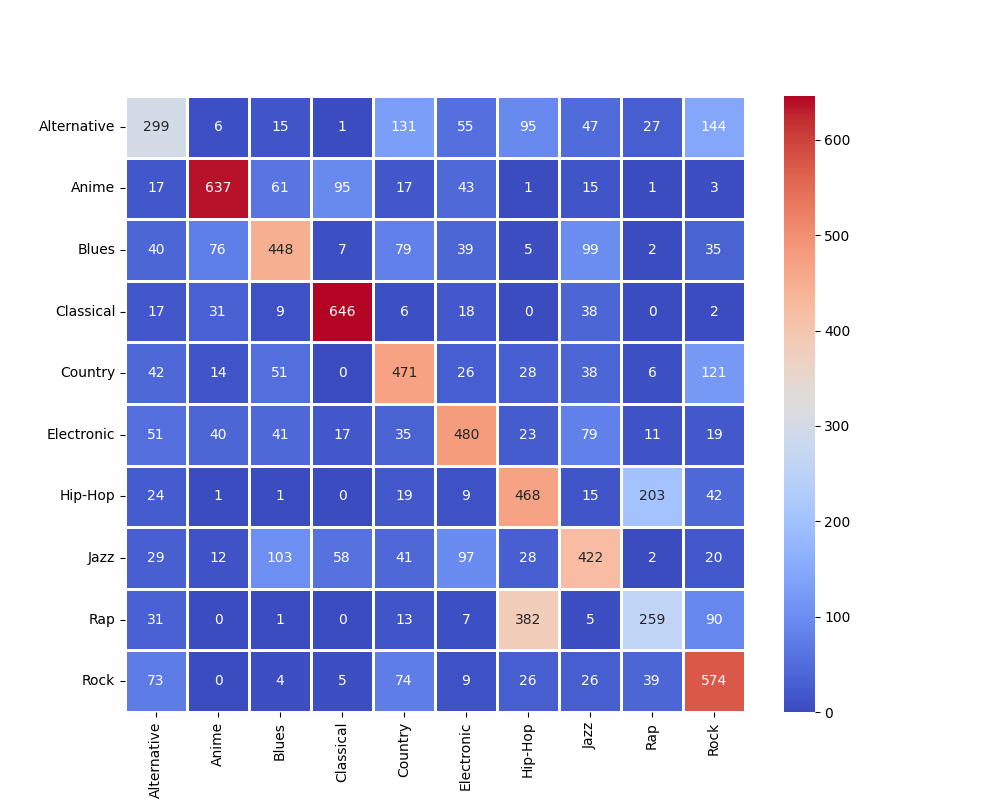
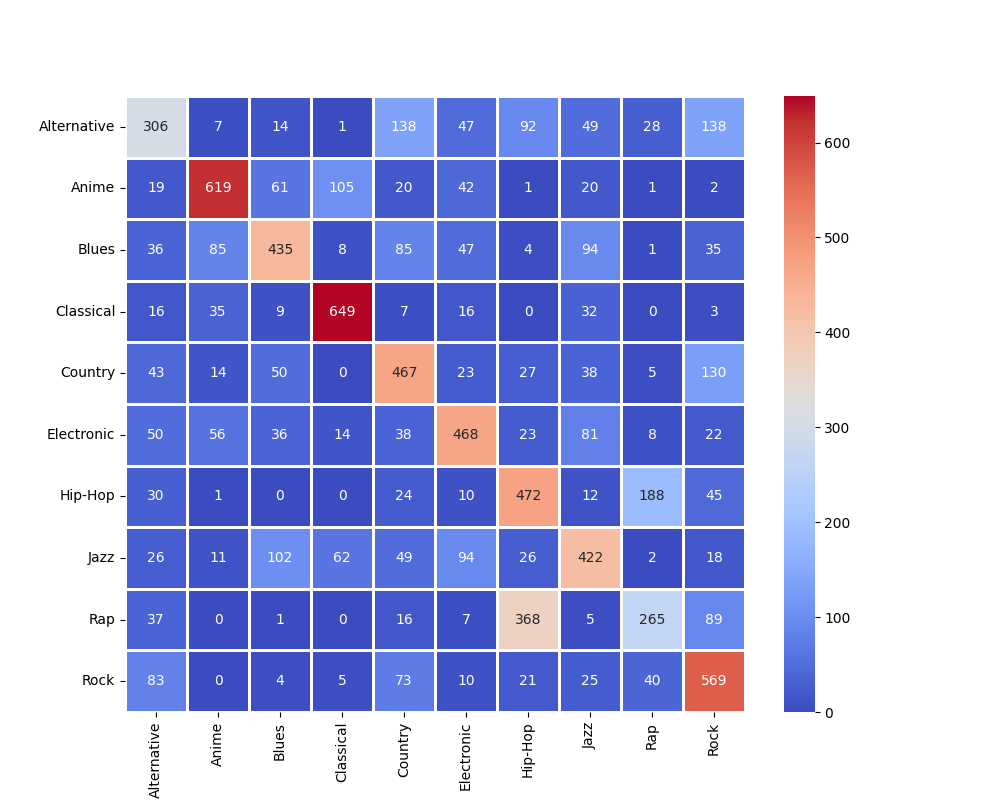
Submitted version

diff --git a/neural_network.py b/neural_network.py
@@ -1,17 +1,14 @@
-from my_data import MusicData
-from keras.models import Sequential
-from keras.layers import Dense, Activation
-import numpy as np
 from time import time
+
+from ann_visualizer.visualize import ann_viz;
+from keras.layers import Dense
+from keras.models import Sequential
+
+from my_data import MusicData
 from utility import print_time
 
-# TODO: Implement Timing
-# TODO: Loss Graph
 
-# https://machinelearningmastery.com/tutorial-first-neural-network-python-keras/
-# https://towardsdatascience.com/building-our-first-neural-network-in-keras-bdc8abbc17f5
-
-def ann(loss, optimizer):
+def ann(loss, optimizer, epochs, batch_size):
     data = MusicData()
     X_train, X_test, y_train, y_test = data.get_x_y_split()
 
@@ -22,23 +19,22 @@ def ann(loss, optimizer):
     model.add(Dense(32, activation='relu'))  # 5th Layer
     model.add(Dense(10, activation='softmax'))  # 6th Layer (Output)
 
-    # Compile the model and calculate its accuracy: In this case, we will use cross entropy as the loss argument. This
-    # loss is for a binary classification problems and is defined in Keras as “binary_crossentropy“.
-
-    # We will define the optimizer as the efficient stochastic gradient descent algorithm “adam“. This is a popular
-    # version of gradient descent because it automatically tunes itself and gives good results in a wide range of problems.
     model.compile(loss=loss, optimizer=optimizer, metrics=['accuracy'])
 
     model.summary()  # Print a summary of the Keras model:
 
     t1 = time()
-    history = model.fit(X_train, y_train, epochs=10, batch_size=8, verbose=1)
+    history = model.fit(X_train, y_train, epochs=epochs, batch_size=batch_size, verbose=1)
     t2 = time()
     training_time = print_time(t1, t2, "Trained the Artificial Neural Network Model")
 
-    # Evaluate the keras model
+    # Evaluate the Keras Model
     _, accuracy = model.evaluate(X_test, y_test)
     print('Accuracy: %.2f' % (accuracy * 100))
 
-    return accuracy * 100, training_time
+    try:
+        ann_viz(model, title="Neural Network Drawing")
+    except:
+        print("Could not draw the Neural Network visualization: Permission Denied.")
 
+    return accuracy * 100, training_time

diff --git a/decision_tree.py b/decision_tree.py
@@ -1,12 +1,13 @@
+from time import time
+
 import pydotplus
 from IPython.display import Image
 from six import StringIO
 from sklearn import metrics  # Import scikit-learn metrics module for accuracy calculation
-from sklearn.metrics import classification_report
 from sklearn.tree import DecisionTreeClassifier  # Import Decision Tree Classifier
 from sklearn.tree import export_graphviz
+
 from my_data import MusicData
-from time import time
 from utility import print_time
 
 
@@ -26,8 +27,6 @@ def dtree():
 
     data = MusicData(dtree=True)
     X_train, X_test, y_train, y_test = data.get_x_y_split()
-
-    print(X_train, X_test, y_train, y_test)
 
     best_depth = 3
     old_accuracy = 0
@@ -60,17 +59,3 @@ def dtree():
     visualize_tree(dtree, "dtree_depth=3")
 
     return accuracy, training_time
-
-    """
-    Gini ratio, which measures the impurity of the node. 
-    
-    Here, the resultant tree is unpruned. This unpruned tree is unexplainable and not easy to understand. In the next section, let's optimize it by pruning.
-    
-    value = [6, 7] means that of these 13 comedians, 6 will get a "NO", and 7 will get a "GO".
-    
-    samples = 13 means that there are 13 comedians left at this point in the decision, which is all of them since this is the first step.
-    
-    Rank <= 6.5 means that every comedian with a rank of 6.5 or lower will follow the True arrow (to the left), and the rest will follow the False arrow (to the right).
-    """
-    # https://www.w3schools.com/python/python_ml_decision_tree.asp
-    # https://www.datacamp.com/tutorial/decision-tree-classification-python

diff --git a/main.py b/main.py
@@ -27,49 +27,15 @@ accuracy, time = dtree()
 accuracies.append(accuracy)
 times.append(time)
 
-accuracy, time = ann('binary_crossentropy', 'adam')
+accuracy, time = ann('binary_crossentropy', 'adam', 10, 8)
 accuracies.append(accuracy)
 times.append(time)
-
-""" REAL RUN 1 RobustScaler Populated 
-       accuracies      times
-KNN     49.815089   4.329000
-DTree   50.936884   2.771217
-LR      55.399408  14.931998
-SVM     57.593688  60.287024
-ANN     59.134614  70.788965
-
-REAL RUN 2 RobustScaler Non Populated
-       accuracies      times
-KNN     48.915187   3.728407
-DTree   51.084813   1.125275
-LR      53.846154   3.957327
-SVM     57.988166  61.200604
-ANN     58.222389  73.825566
-
-REAL RUN 3 MinMaxScaler Non Populated
-       accuracies      times
-KNN     44.995069   4.013001
-DTree   51.023176   1.204003
-LR      53.759862   8.193000
-SVM     54.857002  63.022998
-ANN     56.669134  73.772000
-
-REAL RUN 4 StandartScaler Non Populated
-       accuracies      times
-ANN     19.045858  82.564559
-KNN     48.089250   4.357453
-DTree   50.936884   2.031972
-LR      53.870809   1.592998
-SVM     56.508876  79.743391
-"""
 
 df = pd.DataFrame({'accuracies': accuracies, 'times': times}, index=model_order)
 df.sort_values(inplace=True, by='accuracies')
 ax = df.plot.barh(cmap='Set1')
 ax.set_title("Models Sorted by Best Accuracy")
 ax.set_xlabel("Performance")
-plt.savefig("./plots/predictions/model_comparison_robust_nopopulate.png")
+plt.savefig("./plots/predictions/model_comparison_1.png")
 plt.close()
-
 print(df.head())

diff --git a/my_data.py b/my_data.py
@@ -17,7 +17,7 @@ class MusicData:
 
         self.numeric_features = self.df.drop(['mode', 'music_genre', 'key'], axis=1)
 
-        # self.get_plots()
+        # self.get_plots()  ### Commented for faster executing purposes. Uncomment to generate plots for the first time.
 
         categorical_columns = ['mode', 'music_genre', 'key']
         self.df[categorical_columns] = self.df[categorical_columns].astype('category')
@@ -30,7 +30,7 @@ class MusicData:
             # No OHE, just turn categorical values into numerical.
             self.df[categorical_columns] = self.df[categorical_columns].apply(lambda x: x.cat.codes)
 
-        # self.populate_dataset(dtree)  # Add many new columns.
+        self.populate_dataset(dtree)  # Add many new columns.
 
         if not dtree:
             self.df = self.normalize_features(self.df)  # No need to normalize for decision tree.
@@ -191,14 +191,11 @@ class MusicData:
 
     def get_plots(self):
         self.get_heatmap("heatmap", nums=True, linewidth=1)
-        # self.get_pairplot()
-        # self.get_violinplot()
-        # self.get_histograms(self.numeric_features.columns, 5, 3)
-        # self.get_pairplot_kde()
+        self.get_pairplot()
+        self.get_violinplot()
+        self.get_histograms(self.numeric_features.columns, 5, 3)
+        self.get_pairplot_kde()
         self.get_count_plot("key")
         self.get_count_plot("mode")
         self.get_count_plot("music_genre")
         self.get_box_plots(self.numeric_features.columns)
-
-
-data = MusicData()

diff --git a/utility.py b/utility.py
@@ -1,11 +1,6 @@
-import sys
-import io
 import matplotlib.pyplot as plt
-import numpy as np
-from sklearn.metrics import confusion_matrix
-from sklearn.model_selection import learning_curve
-from time import time
 import seaborn as sns
+from sklearn.metrics import confusion_matrix
 
 
 def print_time(t1, t2, action_name):

diff --git a/logistic_regression.py b/logistic_regression.py
@@ -5,9 +5,6 @@ from utility import print_time, prediction_heatmap
 from time import time
 
 
-# TODO: Loss Graph
-# https://asperbrothers.com/blog/logistic-regression-in-python/
-
 def logistic_regression(iterations):
     data = MusicData()
     X_train, X_test, _, _ = data.get_x_y_split()
